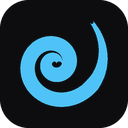
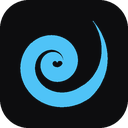
브랜드 나선 꼬리 끝을 뾰족하게 통일 — 앱과 값 일치 (성동님 확정) 1/2
다른 클로드 세션이 잡아낸 어긋남. 같은 나선을 웹과 앱이 각각 한 벌씩
들고 있는데 두 값이 달랐다. 앱이 나중에 다듬은 쪽이고 웹만 옛 값으로
남아 있었다(check-brand-sync.py 빨간불).

  TAPER_FROM  웹 0.90 → 0.88 (가늘어지기 시작하는 지점)
  TIP         웹 0.25 → 0.0  (끝의 굵기 배율)

TIP 0.25 는 최대 굵기 21의 25%(=5.25)로 끝이 뭉툭하게 잘리고, 그 단면이
갈고리 같은 걸림을 만든다. 0.0 이면 0.6(코드 하한)까지 빠져 붓끝처럼
사라진다. 복리 나선은 '계속 뻗어나간다'가 개념이라 뾰족한 쪽이 맞다.

이 커밋: 소스 + 눈에 먼저 띄는 자산
  scripts/brand-spiral.py(값 교체 + 이유 주석)
  favicon 4종 · PWA 9종 · maskable 2종 · favicon.ico · favicon.svg
  로고 2종(라이트/다크) · logo-preview · OG 카드
스플래시 14종은 용량 때문에 2/2 로 나눠 올린다.

diff --git a/scripts/brand-spiral.py b/scripts/brand-spiral.py
@@ -41,7 +41,13 @@ SS = 4                          # supersampling
 # TURNS 와 W_END 는 한 묶음이다. 하나만 바꾸면 안쪽 감김이 붙는다.
 TURNS, GROWTH, OCC, END_ANGLE = 2.15, 3.2, 0.68, 48.0
 W_START, W_END = 8.0, 21.0
-RAMP, TAPER_FROM, TIP = 0.35, 0.90, 0.25
+# 2026-08-19 꼬리 끝 통일 (성동님 확정: "뾰족하게 통일").
+# 앱(flipzen-weather-app)이 먼저 0.88 / 0.0 으로 다듬었는데 웹만 0.90 / 0.25 로
+# 남아 두 벌이 어긋나 있었다(check-brand-sync.py 가 잡아낸 상태).
+# TIP 은 끝의 굵기 배율이다 — 0.25 는 최대 굵기 21의 25%(=5.25)로 뭉툭하게 잘리고,
+# 0.0 은 0.6(코드 하한)까지 빠져 붓끝처럼 사라진다. 복리 나선은 '계속 뻗어나간다'가
+# 개념이라 뾰족한 쪽이 맞다. 잘린 단면이 만들던 갈고리 모양도 함께 사라진다.
+RAMP, TAPER_FROM, TIP = 0.35, 0.88, 0.0
 
 
 def spiral_points(steps=1200):
